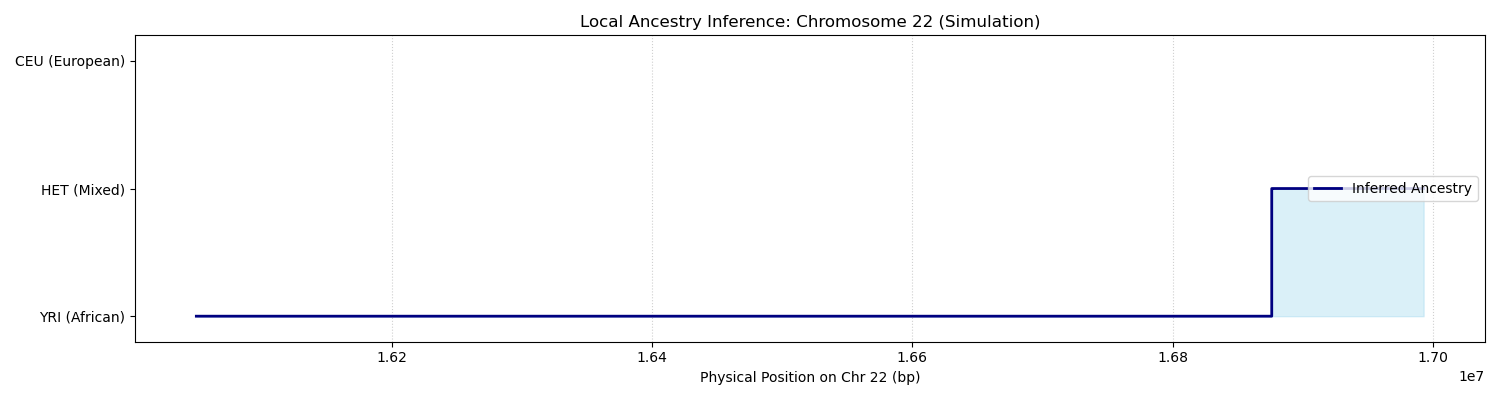
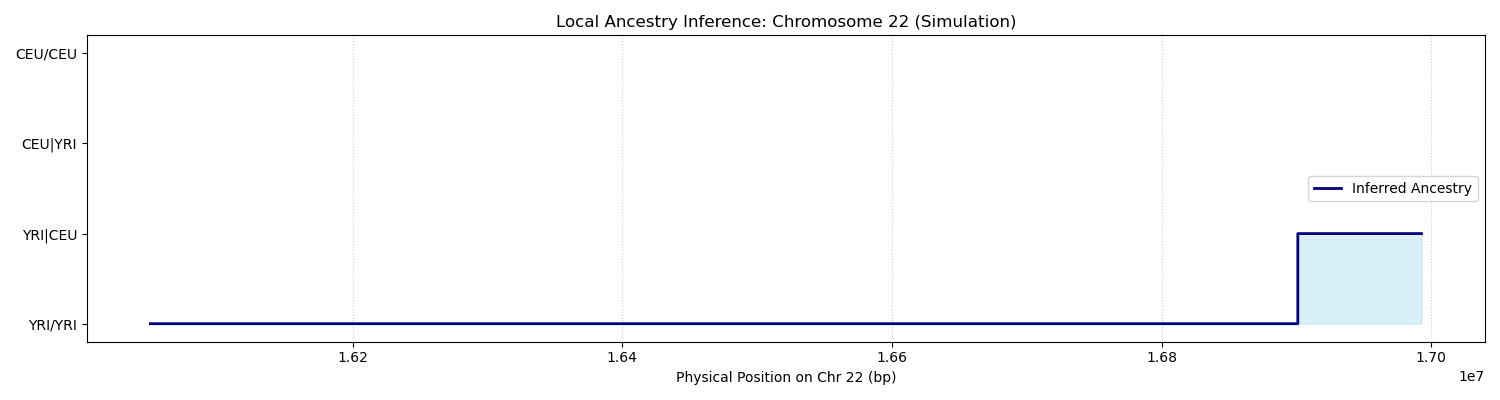
Change to four states for diploid structure

diff --git a/general-analysis/01_real_sample_analysis.py b/general-analysis/01_real_sample_analysis.py
@@ -70,10 +70,16 @@ def main():
         
         for record in vcf:
             if record.pos in common_set:
-                # This line now gets a single string (sample_id)
-                gt = record.samples[sample_id].allele_indices
+                sample_data = record.samples[sample_id]
+                gt = sample_data.allele_indices
+                if (not sample_data.phased) or gt is None or len(gt) < 2 or any(a is None for a in gt):
+                    continue
                 snp_positions.append(record.pos)
                 genotypes.append(gt)
+
+        if not snp_positions:
+            print("    Warning: no phased SNPs available for this sample; skipping")
+            continue
 
         # 4. Run Inference
         emissions = EmissionModel(yri_freqs, ceu_freqs)
@@ -81,21 +87,24 @@ def main():
         engine = InferenceEngine(emissions, transitions)
         
         get_cm = lambda x: interpolate_genetic_position(x, phys, gen)
-        results = engine.run_viterbi(snp_positions, genotypes, get_cm)
-        labels = [
-            "CEU" if state == "CEU_CEU" else "YRI" if state == "YRI_YRI" else "HET"
-            for state in results
-        ]
+        states = engine.run_viterbi(snp_positions, genotypes, get_cm)
         
         # 5. Global Stats
-        total = len(labels)
-        yri_pct = (labels.count("YRI") / total) * 100
-        ceu_pct = (labels.count("CEU") / total) * 100
-        het_pct = (labels.count("HET") / total) * 100
-        print(f"    Summary: {yri_pct:.1f}% YRI | {ceu_pct:.1f}% CEU | {het_pct:.1f}% HET")
+        total = len(states)
+        yri_yri_pct = (states.count("YRI_YRI") / total) * 100
+        yri_ceu_pct = (states.count("YRI_CEU") / total) * 100
+        ceu_yri_pct = (states.count("CEU_YRI") / total) * 100
+        ceu_ceu_pct = (states.count("CEU_CEU") / total) * 100
+        print(
+            "    Summary: "
+            f"{yri_yri_pct:.1f}% YRI_YRI | "
+            f"{yri_ceu_pct:.1f}% YRI_CEU | "
+            f"{ceu_yri_pct:.1f}% CEU_YRI | "
+            f"{ceu_ceu_pct:.1f}% CEU_CEU"
+        )
 
         # 6. Visualize - ensure unique filename per sample!
-        plot_ancestry(snp_positions, labels, save_path=OUTPUT_DIR / f"ancestry_{sample_id}.png")
+        plot_ancestry(snp_positions, states, save_path=OUTPUT_DIR / f"ancestry_{sample_id}.png")
 
 if __name__ == "__main__":
     main()

diff --git a/general-analysis/02_population_analysis.py b/general-analysis/02_population_analysis.py
@@ -73,27 +73,42 @@ def main():
         
         for record in vcf:
             if record.pos in common_set:
-                gt = record.samples[sample_id].allele_indices
+                sample_data = record.samples[sample_id]
+                gt = sample_data.allele_indices
+                if (not sample_data.phased) or gt is None or len(gt) < 2 or any(a is None for a in gt):
+                    continue
                 snp_positions.append(record.pos)
                 genotypes.append(gt)
+
+        if not snp_positions:
+            continue
         
         # Run inference
-        results = engine.run_viterbi(snp_positions, genotypes, get_cm)
-        labels = [
-            "CEU" if state == "CEU_CEU" else "YRI" if state == "YRI_YRI" else "HET"
-            for state in results
-        ]
+        states = engine.run_viterbi(snp_positions, genotypes, get_cm)
         
         # Calculate stats
-        yri_count = labels.count("YRI")
-        ceu_count = labels.count("CEU")
-        het_count = labels.count("HET")
-        total = len(labels)
-        yri_pct = (yri_count / total) * 100
-        ceu_pct = (ceu_count / total) * 100
-        het_pct = (het_count / total) * 100
-        
-        population_data.append({"sample_id": sample_id, "yri_pct": yri_pct, "ceu_pct": ceu_pct, "het_pct": het_pct})
+        yri_yri_count = states.count("YRI_YRI")
+        yri_ceu_count = states.count("YRI_CEU")
+        ceu_yri_count = states.count("CEU_YRI")
+        ceu_ceu_count = states.count("CEU_CEU")
+        total = len(states)
+
+        yri_pct = (yri_yri_count / total) * 100
+        ceu_pct = (ceu_ceu_count / total) * 100
+        yri_ceu_pct = (yri_ceu_count / total) * 100
+        ceu_yri_pct = (ceu_yri_count / total) * 100
+        het_pct = ((yri_ceu_count + ceu_yri_count) / total) * 100
+
+        population_data.append(
+            {
+                "sample_id": sample_id,
+                "yri_pct": yri_pct,
+                "ceu_pct": ceu_pct,
+                "yri_ceu_pct": yri_ceu_pct,
+                "ceu_yri_pct": ceu_yri_pct,
+                "het_pct": het_pct,
+            }
+        )
         
         if i % 10 == 0:
             print(f"    Progress: {i}/{len(asw_samples)} samples completed...")

diff --git a/src/visualization/karyogram.py b/src/visualization/karyogram.py
@@ -1,12 +1,21 @@
 import matplotlib.pyplot as plt
 
-import matplotlib.pyplot as plt
-
 def plot_ancestry(positions, states, true_switch_idx=None, save_path="ancestry_plot.png"):
     """
     Creates a karyogram-style plot of the HMM results.
     """
-    val_map = {"YRI": 0, "HET": 1, "CEU": 2}
+    # Support both legacy 3-state labels and phased 4-state labels.
+    if any(s in {"CEU_YRI", "YRI_CEU"} for s in states):
+        val_map = {"YRI_YRI": 0, "YRI_CEU": 1, "CEU_YRI": 2, "CEU_CEU": 3}
+        ytick_positions = [0, 1, 2, 3]
+        ytick_labels = ["YRI/YRI", "YRI|CEU", "CEU|YRI", "CEU/CEU"]
+        y_min, y_max = -0.2, 3.2
+    else:
+        val_map = {"YRI": 0, "HET": 1, "CEU": 2}
+        ytick_positions = [0, 1, 2]
+        ytick_labels = ["YRI (African)", "HET (Mixed)", "CEU (European)"]
+        y_min, y_max = -0.2, 2.2
+
     y_values = [val_map[s] for s in states]
     
     plt.figure(figsize=(15, 4))
@@ -19,8 +28,8 @@ def plot_ancestry(positions, states, true_switch_idx=None, save_path="ancestry_p
     if true_switch_idx is not None:
         plt.axvline(x=positions[true_switch_idx], color='red', linestyle='--', alpha=0.7, label='Truth Midpoint')
 
-    plt.yticks([0, 1, 2], ["YRI (African)", "HET (Mixed)", "CEU (European)"])
-    plt.ylim(-0.2, 2.2)
+    plt.yticks(ytick_positions, ytick_labels)
+    plt.ylim(y_min, y_max)
     plt.title("Local Ancestry Inference: Chromosome 22 (Simulation)")
     plt.xlabel("Physical Position on Chr 22 (bp)")
     plt.legend(loc='center right')

diff --git a/src/hmm/emission.py b/src/hmm/emission.py
@@ -44,7 +44,7 @@ class EmissionModel:
 
     def get_emission_probs(self, pos, genotype):
         """
-        Calculates P(Genotype | State) for diploid ancestry states.
+        Calculates P(Genotype | State) for phased diploid ancestry states.
         genotype: tuple (0, 1), (1, 1), etc.
         """
         f_yri = self.yri_freqs.get(pos, 0.5) # Default to 0.5 if SNP missing
@@ -52,11 +52,13 @@ class EmissionModel:
         
         p_ceu_ceu = self._calc_likelihood(genotype, f_ceu, f_ceu)
         p_yri_yri = self._calc_likelihood(genotype, f_yri, f_yri)
-        p_ceu_yri = self._calc_mixed_likelihood(genotype, f_ceu, f_yri)
+        p_ceu_yri = self._calc_likelihood(genotype, f_ceu, f_yri)
+        p_yri_ceu = self._calc_likelihood(genotype, f_yri, f_ceu)
 
         return {
             "CEU_CEU": p_ceu_ceu,
             "CEU_YRI": p_ceu_yri,
+            "YRI_CEU": p_yri_ceu,
             "YRI_YRI": p_yri_yri,
         }
 
@@ -74,12 +76,6 @@ class EmissionModel:
         p2 = self._allele_prob(allele_2, f2)
         prob = p1 * p2
         return max(prob, self.epsilon)
-
-    def _calc_mixed_likelihood(self, genotype, f_left, f_right):
-        """Average over the two possible allele-origin orderings for mixed ancestry."""
-        prob_a = self._calc_likelihood(genotype, f_left, f_right)
-        prob_b = self._calc_likelihood(genotype, f_right, f_left)
-        return max(0.5 * (prob_a + prob_b), self.epsilon)
 
     def _allele_prob(self, allele, f):
         if allele == 1:

diff --git a/src/hmm/transition.py b/src/hmm/transition.py
@@ -13,7 +13,7 @@ class TransitionModel:
 
     def get_transition_matrix(self, cm_start, cm_end):
         """
-        Calculates transition probabilities among diploid ancestry states.
+        Calculates transition probabilities among phased diploid ancestry states.
         cm_start: genetic position of SNP i
         cm_end: genetic position of SNP i+1
         """
@@ -26,14 +26,24 @@ class TransitionModel:
         
         p_stay = 1 - p_switch
 
-        # State order: CEU_CEU, CEU_YRI, YRI_YRI
-        matrix = np.array(
-            [
-                [p_stay, p_switch, 0.0],
-                [0.5 * p_switch, p_stay, 0.5 * p_switch],
-                [0.0, p_switch, p_stay],
-            ],
-            dtype=float,
-        )
+        # State order: CEU_CEU, CEU_YRI, YRI_CEU, YRI_YRI
+        haplotypes = ["CEU", "YRI"]
+        states = [
+            ("CEU", "CEU"),
+            ("CEU", "YRI"),
+            ("YRI", "CEU"),
+            ("YRI", "YRI"),
+        ]
+
+        hap_transition = {
+            (src, dst): (p_stay if src == dst else p_switch)
+            for src in haplotypes
+            for dst in haplotypes
+        }
+
+        matrix = np.zeros((len(states), len(states)), dtype=float)
+        for i, (h1_src, h2_src) in enumerate(states):
+            for j, (h1_dst, h2_dst) in enumerate(states):
+                matrix[i, j] = hap_transition[(h1_src, h1_dst)] * hap_transition[(h2_src, h2_dst)]
 
         return matrix

diff --git a/benchmark/scripts/export_model_predictions.py b/benchmark/scripts/export_model_predictions.py
@@ -26,6 +26,7 @@ from hmm.viterbi import InferenceEngine
 STATE_TO_LABEL = {
     "CEU_CEU": "CEU",
     "CEU_YRI": "HET",
+    "YRI_CEU": "HET",
     "YRI_YRI": "YRI",
 }
 
@@ -128,8 +129,16 @@ def main() -> None:
 
         for record in records:
             if record.pos in valid_set:
+                sample_data = record.samples[sample_id]
+                gt = sample_data.allele_indices
+                if (not sample_data.phased) or gt is None or len(gt) < 2 or any(a is None for a in gt):
+                    continue
                 snp_positions.append(record.pos)
-                genotypes.append(record.samples[sample_id].allele_indices)
+                genotypes.append(gt)
+
+        if not snp_positions:
+            print(f"Skipped {sample_id}: no phased SNPs available")
+            continue
 
         get_cm = lambda position: interpolate_genetic_position(position, phys, gen)
         states = engine.run_viterbi(snp_positions, genotypes, get_cm)
@@ -139,9 +148,10 @@ def main() -> None:
             {
                 "sample_id": sample_id,
                 "position": pos,
+                "state": state,
                 "label": label,
             }
-            for pos, label in zip(snp_positions, labels)
+            for pos, state, label in zip(snp_positions, states, labels)
         )
 
         yri_pct = 100.0 * sum(label == "YRI" for label in labels) / len(labels)

diff --git a/src/hmm/viterbi.py b/src/hmm/viterbi.py
@@ -12,7 +12,7 @@ class InferenceEngine:
     def __init__(self, emission_model, transition_model):
         self.emissions = emission_model
         self.transitions = transition_model
-        self.states = ["CEU_CEU", "CEU_YRI", "YRI_YRI"]
+        self.states = ["CEU_CEU", "CEU_YRI", "YRI_CEU", "YRI_YRI"]
 
     def run_viterbi(self, snp_positions, genotypes, genetic_map_func):
         """
